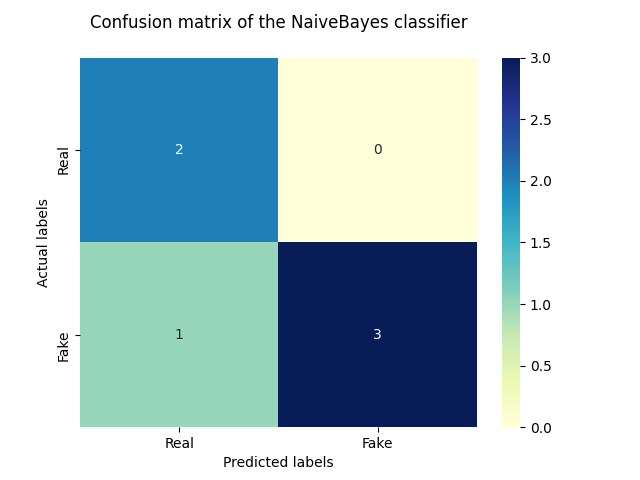
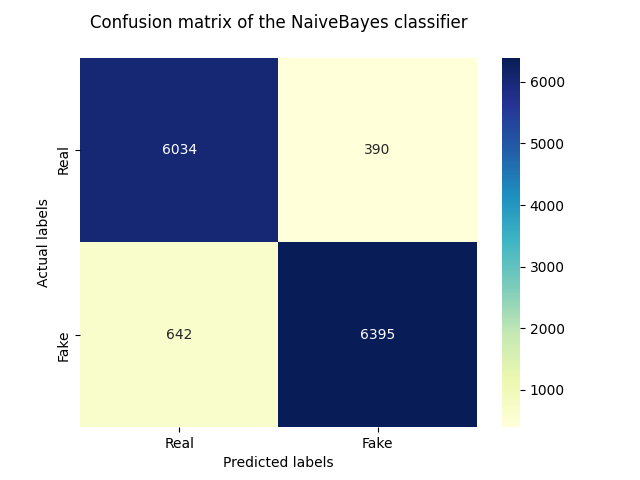
add stopwords

diff --git a/preprocess.py b/preprocess.py
@@ -7,14 +7,22 @@ import string
 import nltk
 nltk.download('punkt')
 nltk.download('wordnet')
+nltk.download('stopwords')
 from nltk.tokenize import word_tokenize
-from nltk.stem import WordNetLemmatizer 
+from nltk.stem import WordNetLemmatizer
+from nltk.corpus import stopwords 
 
 import sklearn
 import sklearn.model_selection as ms
 from sklearn.feature_extraction.text import TfidfVectorizer
 
 DATA_DIR = "./data/"
+
+news_networks = ["CNN", "BBC", "theguardian", "foxnews", "nbcnews", "washingtonpost"]
+common_words = ["said", "would", "image", "via"]
+stop_words = list(stopwords.words("english"))
+stop_words.extend(news_networks)
+stop_words.extend(common_words)
 
 # parses the dataset from the csv file and sets the correct label
 def parse_dataset(csv_file, label):
@@ -42,8 +50,8 @@ def tokenize(news_data, name):
     print("Tokenizing {} dataset, this may take a few minutes...".format(name))
     for article in (news_data["text"]):
         words = word_tokenize(article)
-        words = [word.lower() for word in words if word.isalpha()] #lowercase
-        words = [word for word in words if word not in string.punctuation]
+        words = [word.lower() for word in words if word.isalpha()]
+        words = [word for word in words if word not in stop_words and word not in string.punctuation]
             
         # TODO investigate better solution for tokenization, possibly with pytorch?
         lemmatizer = WordNetLemmatizer()
